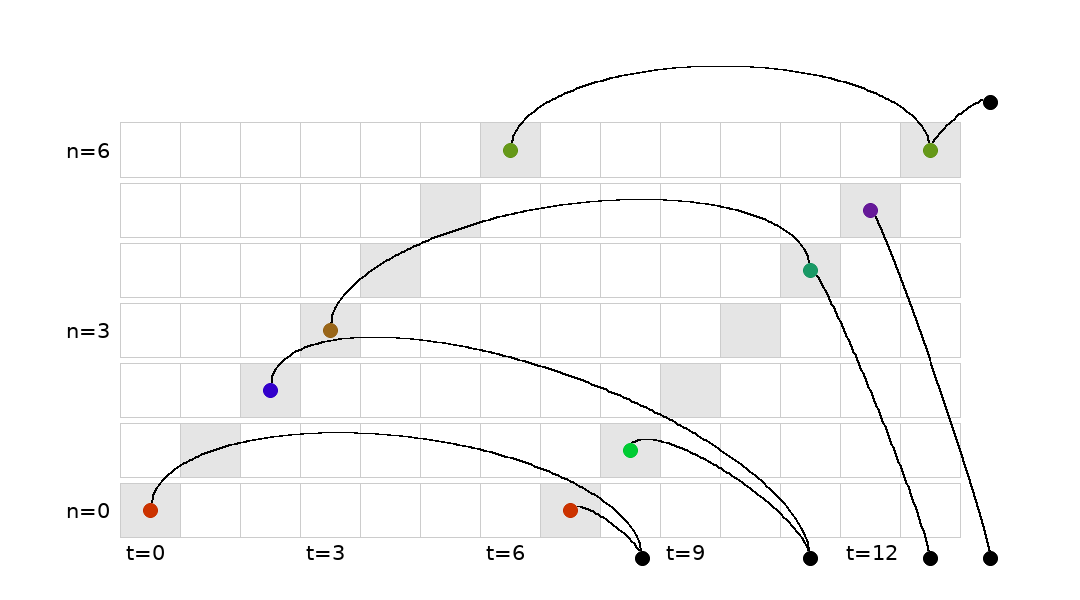
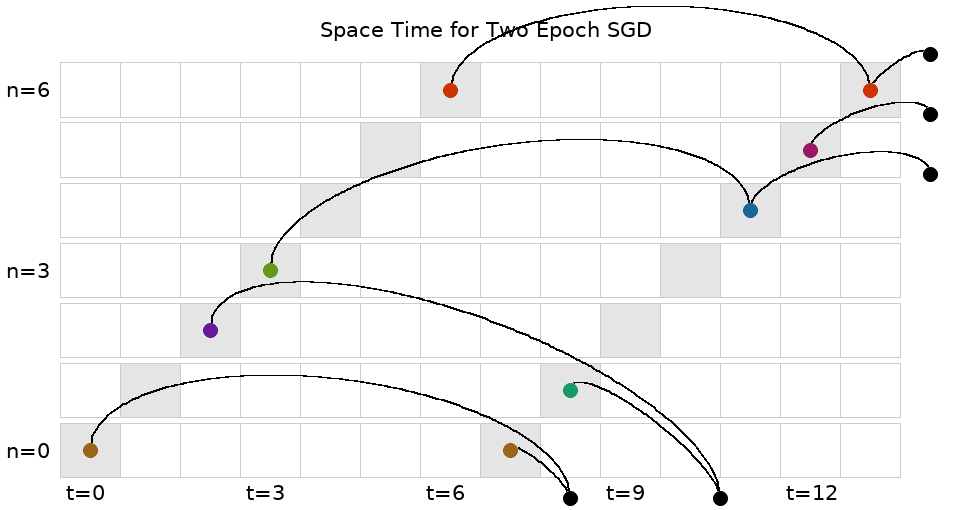
intro spacetime and embedding diagrams

diff --git a/writeup/perturb.tex b/writeup/perturb.tex
@@ -206,11 +206,11 @@
             These Feynman diagrams will be explained in the text.
         }
         Flat and sharp minima both overfit less than minima of curvature
-        comparable to $(\eta T)^{-1}$.  While flat minima are robust to
-        vector-valued weight displacements and sharp minima are robust to
-        covector-valued loss offsets, medium minima attain the worst of both
-        worlds.  We thus reconcile prior intuitions that sharp \citep{ho17,
-        ke17, wa18} or flat \citep{st56, di17, wu18} minima overfit worse.  These
+        comparable to $(\eta T)^{-1}$.  Flat minima are robust to
+        vector-valued noise, sharp minima are robust to
+        covector-valued noise, and medium minima attain the worst of both
+        worlds.  We thus reconcile prior intuitions that sharp \citep{ ke17,
+        wa18} or flat \citep{di17, wu18} minima overfit worse.  These
         considerations lead us to a smooth generalization of AIC and to tune
         hyperparameters by gradient descent.
 
@@ -235,34 +235,57 @@
         %       The Idea of Diagrams Embedded in Spacetime
         %----------------------------------------------------------------------
 
-        The $n$th datapoint participates in the $t$th update; we represent all
-        such $(n, t)$ pairs of an SGD run as the shaded cells of a grid, where
-        datapoints index rows and times index columns.  The shaded cells
+        Deferring details, we survey our formalism. 
+        Say the $n$th datapoint participates in the $t$th update; we represent
+        all such $(n, t)$ pairs of an SGD run as the shaded cells of a grid,
+        where datapoints index rows and times index columns.  The shaded cells
         comprise the SGD run's \emph{spacetime}.
-
         \begin{figure}[H] 
             \centering  
-            \plotmooh{diagrams/spacetime-e}{}{0.24\columnwidth}
-            \plotmooh{diagrams/spacetime-f}{}{0.24\columnwidth}
+            \plotmooh{diagrams/spacetime-e}{}{0.26\columnwidth}
+            \plotmooh{diagrams/spacetime-f}{}{0.26\columnwidth}
             \caption{
-                Examples of spacetimes for $16$ steps on $8$ datapoints.
+                Two spacetimes (collections of shaded cells) for $16$ steps on
+                $8$ datapoints along with some embedded Feynman diagrams.
+                Nodes (here black) outside the grid represent a post-training
+                measurement of test loss; only convenience of drawing dictates
+                their coordinates.
                 {\bf Left}: SGD run with size-$1$ batches and with shuffling.
+                    The three embeddings shown are, respectively,
+                    an illegal embedding of $\sdia{(01-2)(01-12)}$,
+                    a legal embedding of $\sdia{(01-2)(01-12)}$, and 
+                    a legal embedding of $\sdia{(0-1-2)(01-12)}$.
                 {\bf Right}: SGD run with size-$2$ batches and no shuffling.
+                    Depicted is an embedding of a $4$-edged diagram along
+                    with the data-weight interactions it represents.  Our work
+                    shows how to compute the contribution of this particular
+                    pattern of interactions to the eventual test loss.  Our
+                    work shows how the test loss is a sum of infinitely many
+                    such interactions, each given by a different diagram
+                    embedding. 
             }
             \label{fig:spacetimes}
         \end{figure}
 
-        Our formalism represents an
-        SGD run's expected test loss as a \emph{sum over all diagram
-        embeddings}, where diagrams are graphs such as $\sdia{(0-1)(01)}$ and
-        $\sdia{(01-2)(02-12)}$ and $\sdia{(01-2)(01-12)}$ composed of thin
-        edges and fuzzy ties.  Diagrams evaluate to numbers as later described.
-        \emph{Embeddings} of diagrams into spacetime grids are maps of nodes
-        into cells that preserve left-right relationships along thin edges and
-        that map two nodes into the same row exactly when they are fuzzily
-        tied.  Each $d$-edged diagram contributes to order $\eta^d$, so,
-        for small $\eta$, the few-edged diagrams suffice to predict
-        test losses.
+        An SGD run's expected test loss is a \emph{sum over embeddings of
+        diagrams into spacetime}.  Diagrams are rooted graphs such as
+        $\sdia{(0-1)(01)}$ and $\sdia{(01-2)(02-12)}$ and
+        $\sdia{(01-2)(01-12)}$: they are composed of thin edges and fuzzy ties,
+        with the root on the right.  Their nodes are colored arbitrarily
+        subject to the constraint that fuzzily-tied nodes have the same color.
+        The colors serve only as convenient labels --- e.g. we might refer to a
+        diagram's ``blue node'' --- and have no mathematical meaning.
+
+        We may \emph{embed} a diagram into spacetime by placing each node in a
+        cell.  We allow only embeddings that:
+            \emph{preserve left-right relationships along thin edges}
+            and that
+            \emph{map two nodes into the same row exactly when they are fuzzily tied}.
+        Figure \ref{fig:spacetimes} for examples of embeddings. 
+
+        Diagrams evaluate to numbers.  Each $d$-edged diagram contributes to
+        order $\eta^d$, so, for small $\eta$, the few-edged diagrams suffice to
+        predict test losses.
 
         %----------------------------------------------------------------------
         %       Epoch Number Example     
@@ -277,10 +300,7 @@
                 left}) and two-epoch ({\bf right}) SGD.  The diagrams for one
                 and two epochs correspond by horizontal shifts \emph{except}
                 when same-row nodes are connected --- such as in the top right
-                diagram $\sdia{c(01-2)(01-12)}$.  Colors serve no role beyond
-                convenient reference.  Nodes (here black) outside the grid
-                represent a post-training measurement of test loss; only
-                convenience of drawing dictates their coordinates.
+                diagram $\sdia{c(01-2)(01-12)}$. 
             }
             \label{fig:epoch}
         \end{figure}
@@ -312,15 +332,6 @@
         }
         \begin{align*}
             \dvalue\wrap{\sdia{c(01-2)(01-12)}}
-            %=
-            %&\wrap{
-            %    \expc_{x}\wasq{\nabla_\mu l_x \nabla_\nu \nabla_\lambda l_x} 
-            %    -
-            %    \expc_{x}\wasq{\nabla_\mu l_x}
-            %    \expc_{x}\wasq{\nabla_\nu \nabla_\lambda l_x} 
-            %} \cdot \\
-            %&\expc_{x}\wasq{\nabla_\rho l_x}
-            %\wrap{-\eta^{\mu\nu}} \wrap{-\eta^{\lambda\rho}}
             = 
             \frac{1}{2} G^\mu \nabla_\mu C^{\nu}_{\nu} 
         \end{align*}

diff --git a/diagrams/spacetime.py b/diagrams/spacetime.py
@@ -10,9 +10,12 @@ from skimage.draw import circle, circle_perimeter_aa, line_aa, rectangle
 from PIL import Image, ImageDraw, ImageFont
 
 fnt = ImageFont.truetype('Pillow/Tests/fonts/DejaVuSans.ttf', 21)
+fntbig = ImageFont.truetype('Pillow/Tests/fonts/DejaVuSans.ttf', 42)
+fnt = fntbig
 
 black = (0.0, 0.0, 0.0)
 gray  = (0.8, 0.8, 0.8)
+
 red   = (0.8, 0.2, 0.0)
 orange= (0.6, 0.4, 0.1)
 lemon = (0.4, 0.6, 0.1)
@@ -24,9 +27,9 @@ indigo= (0.4, 0.1, 0.6)
 purple= (0.6, 0.1, 0.4)
 
 colors = [
-    red, green, blue,
     orange, teal, indigo,
     lemon, sky, purple,
+    red, green, blue,
     black
 ]
 
@@ -57,14 +60,20 @@ def draw_arc_aa(img, row_s, col_s, row_e, col_e, curve=1.0, color=black):
     for (r, c), (rr, cc) in zip(points, points[1:]):
         draw_line_aa(img, r, c, rr, cc, color)
 
-N = 7
-T = 14#15
-MARG = 60
+N = 8
+dN = 7
+T = 16
+dT = 5 
+
+#MARG = 30
+MARG = 45
 SPACE = 60
 height = 3*MARG + N*SPACE
 width  = 4*MARG + T*SPACE
 get_r = lambda n: int(2*MARG + (N-n)*SPACE)
 get_c = lambda t: int(2*MARG + t*SPACE)
+
+texts = [] 
 
 def draw_grid(img): 
     for n in range(N):  
@@ -75,6 +84,14 @@ def draw_grid(img):
         # verticals:
         for t in range(T+1):
             draw_line_aa(img, get_r(n+0.05), get_c(t), get_r(n+0.95), get_c(t), color=gray)
+
+def queue_text(n, t, text, color=black, rot=0):
+    texts.append((n, t, text, color, rot))
+
+def draw_x(img, n, t, nn, tt, text='', color=black):
+    draw_line_aa(img, get_r(n    ), get_c(t     ), get_r(nn+1.0), get_c(tt+1.0), color=color)
+    draw_line_aa(img, get_r(n    ), get_c(tt+1.0), get_r(nn+1.0), get_c(t     ), color=color)
+    queue_text(n, (t+tt)/2.0, text)
 
 def fill_boxes(img, nts):
     for (n, t) in nts:
@@ -140,14 +157,14 @@ def draw_c(filename):
     draw_grid(img)
 
     # an order 1 diagram:
-    draw_diagram(img, [[(5, 5    ),                 (7.0-0.2, 5.8  )]])
+    draw_diagram(img, [[(5, 5    ),                 (6.0-0.4, 7.0  )]])
 
     # order 2 diagrams:
     draw_diagram(img, [[(0, 0+0.2),                 (0.0-0.8, 4.2  )], 
                        [            (0, 0-0.2),     (0.0-0.8, 4.2  )]])
     draw_diagram(img, [[(1, 1    ),                 (0.0-0.8, 5.2  )], 
                        [            (2, 2    ),     (0.0-0.8, 5.2  )]])
-    draw_diagram(img, [[(3, 3    ), (4, 4    ),     (7.0-0.2, 4.8  )]])
+    draw_diagram(img, [[(3, 3    ), (4, 4    ),     (5.0-0.4, 7.0  )]])
 
     plt.imsave(filename, img)
 
@@ -160,33 +177,98 @@ def draw_d(filename):
     draw_grid(img)
 
     # an order 1 diagram:
-    draw_diagram(img, [[(5,12    ),                 (0.0-0.8,14.0  )]])
+    draw_diagram(img, [[(5,12    ),                 (6.0-0.4,14.0  )]])
 
     # old order 2 diagrams:
-    draw_diagram(img, [[(0, 0    ),                 (0.0-0.8, 8.2  )], 
-                       [            (0, 7    ),     (0.0-0.8, 8.2  )]])
-    draw_diagram(img, [[(2, 2    ),                 (0.0-0.8,11.0  )], 
-                       [            (1, 8    ),     (0.0-0.8,11.0  )]])
-    draw_diagram(img, [[(3, 3    ), (4,11    ),     (0.0-0.8,13.0  )]])
+    draw_diagram(img, [[(0, 0    ),                 (0.0-0.8, 8.0  )], 
+                       [            (0, 7    ),     (0.0-0.8, 8.0  )]])
+    draw_diagram(img, [[(2, 2    ),                 (0.0-0.8,10.5  )], 
+                       [            (1, 8    ),     (0.0-0.8,10.5  )]])
+    draw_diagram(img, [[(3, 3    ), (4,11    ),     (5.0-0.4,14.0  )]])
 
     # new order 2 diagram:
-    draw_diagram(img, [[(6, 6    ), (6,13    ),     (7.0-0.2,14.0  )]])
+    draw_diagram(img, [[(6, 6    ), (6,13    ),     (7.0-0.4,14.0  )]])
 
     plt.imsave(filename, img)
 
-FILE_NM = 'spacetime-d.png' 
-draw_d(FILE_NM)
+def draw_e(filename): 
+    img = np.ones((height, width, 3), dtype=np.float32)
+    fill_boxes(img, [(
+        (i * (1 if int(i//N)==0 else 3)) % N,
+        i%T
+    ) for i in range(max(N, T))])
+    draw_grid(img)
+
+    draw_diagram(img, [[(3, 3-0.3), (3, 3+0.3),     (N-0.3  , 5.0  )]])
+    draw_x(img, 2.8, 2.8, 3.2, 3.2)
+    queue_text(2.75,3.5,  'intra-cell edges\nare forbidden')
+
+    draw_diagram(img, [[(6, 6    ), (6,  10   ),     (N-0.3  , 11.0  )]])
+    queue_text(6.25, 8.5, 'okay embedding')
+
+    draw_diagram(img, [[( 4,12 ), (7,  13   ),     (N-0.3  , 15.0  )]])
+    queue_text(4.25,  12.5  , 'okay embedding')
+
+    plt.imsave(filename, img)
+
+def draw_f(filename): 
+    img = np.ones((height, width, 3), dtype=np.float32)
+    fill_boxes(img, [(
+        (2*i) % N, 
+        i%T
+    ) for i in range(max(N, T))])
+    fill_boxes(img, [(
+        (2*i+1) % N, 
+        i%T
+    ) for i in range(max(N, T))])
+    draw_grid(img)
+
+    # an order 4 diagram:
+    draw_diagram(img, [[(5, 2+0.2),         (1,12), (N-3.3, T+0.2)],
+                       [(5, 2-0.2),                 (N-3.3, T+0.2)],
+                       [            (2, 5), (1,12),              ]])
+    queue_text(5.5 ,   2+1.5, 'this cell...', color=colors[5])
+    queue_text(5.5 ,   7.25 , '...affects...', color=colors[5])
+    queue_text(8.25,  10    , '...and affects...', color=colors[5])
+
+    queue_text(2   ,   5+1  , 'this cell...', color=colors[2])
+    queue_text(3.5 ,   9    , '...affects...', color=colors[2])
+
+    queue_text(1   ,  12+1  , '...this cell, which...', color=colors[1])
+    queue_text(3.5 ,  16    , '...affects...', color=colors[1])
+
+    queue_text(N-1.2 ,T-2.5 , '...the test\nmeasurement')
+
+    plt.imsave(filename, img)
+
+FILE_NM = 'spacetime-e.png' 
+title = "Singleton Batches with Shuffling"
+#title = "Size-Two Batches without Shuffling"
+draw_e(FILE_NM)
 
 #=============================================================================
 
 im = Image.open(FILE_NM)
-
 draw = ImageDraw.Draw(im)
-#draw.text((get_c(6.18), get_r(N+0.7)), "Space Time for Pure GD and Pure SGD", font=fnt, fill=(0,0,0,255))
-for t in range(0, T, 3):
-    draw.text((get_c(t+0.1), get_r(0.0)), "t=%d"%t, font=fnt, fill=(0,0,0,255))
-for n in range(0, N, 3):
-    draw.text((get_c(-0.9), get_r(n+0.7)), "n=%d"%n, font=fnt, fill=(0,0,0,255))
 
+def centered_text(n, t, s, c=black, rot=0):
+    ll = max(map(len, s.split('\n')))
+    #t = t - 0.095*len(s)
+    t = t - 2*0.095*ll
+    draw.text((get_c(t), get_r(n)), s, font=fnt,
+        fill=(int(255*c[0]), int(255*c[1]), int(255*c[2]), 255),
+        align='center'
+    )
+
+#centered_text(N+0.7, T/2.0, title)
+centered_text(N+1.4, T/2.0, title)
+for t in range(0, T, dT):
+    centered_text(0.0, t+0.5, "t=%d"%t)
+for n in range(0, N, dN):
+    #centered_text(n+0.7, -0.5, "n=%d"%n)
+    centered_text(n+0.7, -0.9, "n=%d"%n)
+
+for (n, t, s, c, rot) in texts:
+    centered_text(n, t, s, c, rot)
 
 im.save(FILE_NM)
